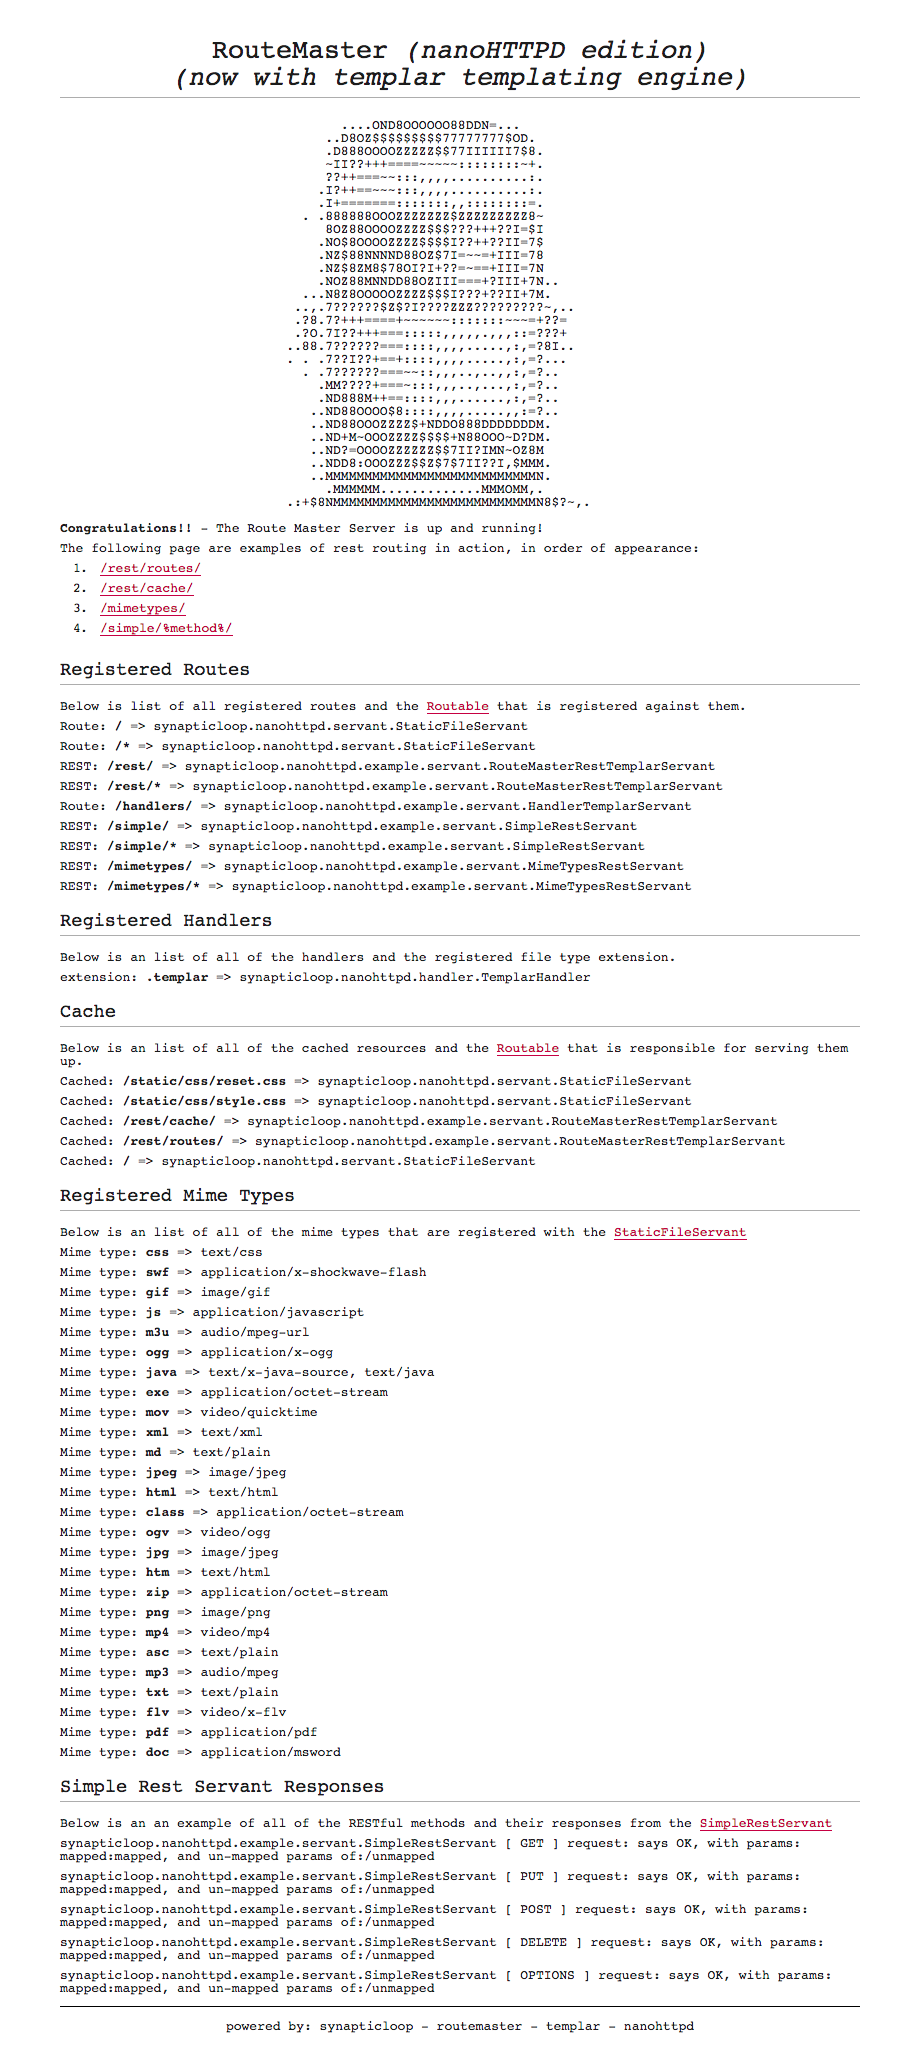
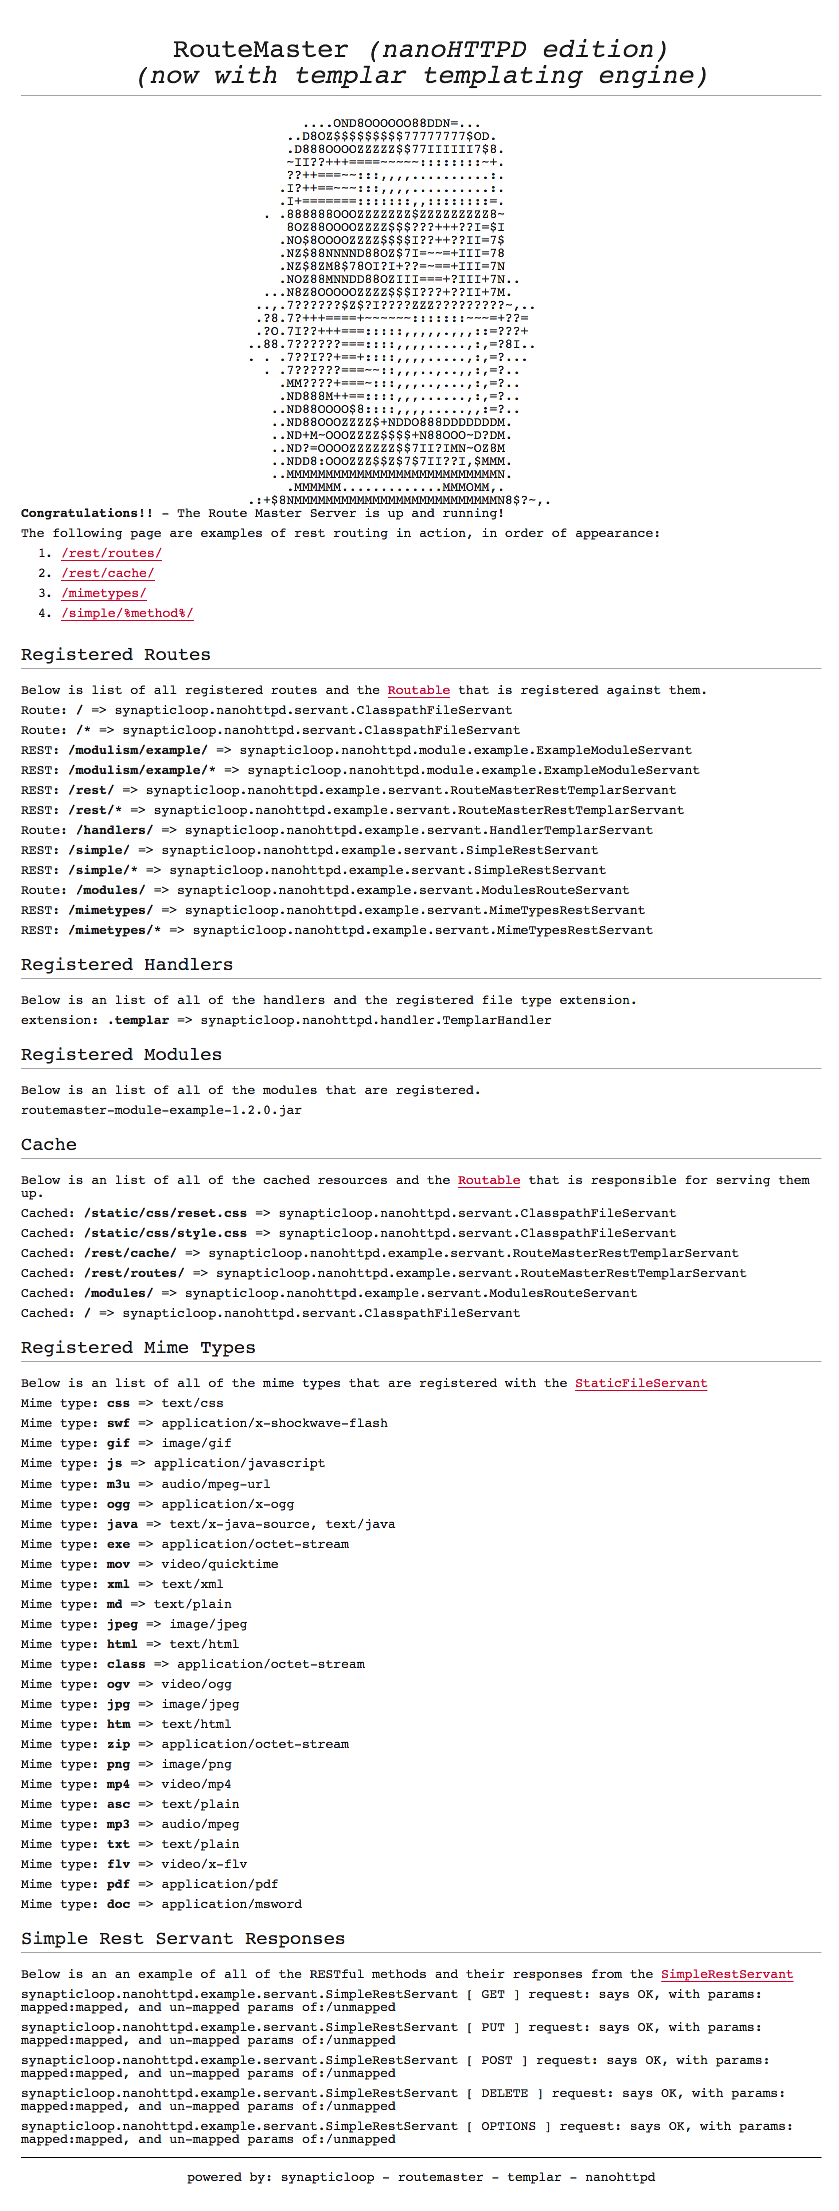
updated

Changed region(s): [[0.031, 0.0, 0.9297, 0.9985], [0.8677, 0.4993, 0.8987, 0.5305]]

diff --git a/src/main/html/index.html b/src/main/html/index.html
@@ -69,6 +69,13 @@
 	<div id="handlers">
 	</div>
 
+	<h2>Registered Modules</h2>
+	<p>Below is an list of all of the modules that are registered.</p>
+
+	<div id="modules">
+	</div>
+
+
 	<h2>Cache</h2>
 	<p>Below is an list of all of the cached resources and the <span class="code">Routable</span> that is responsible for serving them up.</p>
 
@@ -131,6 +138,12 @@
 			url: "/handlers/"
 		}).done(function(data) {
 			$("#handlers").append(data);
+		});
+
+		$.ajax({
+			url: "/modules/"
+		}).done(function(data) {
+			$("#modules").append(data);
 		});
 
 		$.ajax({

diff --git a/src/main/java/synapticloop/nanohttpd/servant/StaticFileServant.java b/src/main/java/synapticloop/nanohttpd/servant/StaticFileServant.java
@@ -44,6 +44,7 @@ public class StaticFileServant extends Routable {
 	@Override
 	public Response serve(File rootDir, IHTTPSession httpSession) {
 		boolean indexFileRequested = false;
+		Map<String, Handler> handlerCache = RouteMaster.getHandlerCache();
 
 		String uri = HttpUtils.cleanUri(httpSession.getUri());
 		File file = new File(rootDir.getAbsolutePath() + uri);
@@ -54,6 +55,22 @@ public class StaticFileServant extends Routable {
 				file = indexFile;
 				indexFileRequested = true;
 			} else {
+				// maybe this can be handled by a handler... (it may be a virtual file)
+				int lastIndexOf = uri.lastIndexOf(".");
+				String extension = uri.substring(lastIndexOf + 1);
+				if(handlerCache.containsKey(extension)) {
+					Handler handler = handlerCache.get(extension);
+					String fileName = file.getName();
+					if(handler.canServeUri(fileName)) {
+						if(indexFileRequested) {
+							return(handler.serveFile(rootDir, uri + fileName, httpSession.getHeaders(), httpSession));
+						} else {
+							return(handler.serveFile(rootDir, uri, httpSession.getHeaders(), httpSession));
+						}
+					}
+				}
+
+				// at this point we cannot handle the response
 				return(RouteMaster.get404Response(rootDir, httpSession));
 			}
 		}
@@ -77,7 +94,6 @@ public class StaticFileServant extends Routable {
 		int lastIndexOf = absolutePath.lastIndexOf(".");
 		String extension = absolutePath.substring(lastIndexOf + 1);
 
-		Map<String, Handler> handlerCache = RouteMaster.getHandlerCache();
 		if(handlerCache.containsKey(extension)) {
 			Handler handler = handlerCache.get(extension);
 			String fileName = file.getName();
@@ -169,6 +185,7 @@ public class StaticFileServant extends Routable {
 							return (int) dataLen;
 						}
 					};
+
 					long skip = fis.skip(startFrom);
 					if(skip != startFrom) {
 						LOGGER.severe("Tried to skip: " + startFrom + " bytes, but actualy skipped: " + skip + " bytes");
@@ -180,9 +197,9 @@ public class StaticFileServant extends Routable {
 					res.addHeader("ETag", etag);
 				}
 			} else {
-				if (etag.equals(header.get("if-none-match")))
+				if (etag.equals(header.get("if-none-match"))) {
 					res = HttpUtils.notModifiedResponse(mimeType, "");
-				else {
+				} else {
 					res = HttpUtils.okResponse(mimeType, new FileInputStream(file), file.length());
 					res.addHeader("Accept-Ranges", "bytes");
 					res.addHeader("Content-Length", "" + Long.toString(fileLen));

diff --git a/src/main/java/synapticloop/nanohttpd/example/servant/ModulesRouteServant.java b/src/main/java/synapticloop/nanohttpd/example/servant/ModulesRouteServant.java
@@ -1,0 +1,48 @@
+package synapticloop.nanohttpd.example.servant;
+
+/*
+ * Copyright (c) 2013-2017 synapticloop.
+ * 
+ * All rights reserved.
+ *
+ * This source code and any derived binaries are covered by the terms and
+ * conditions of the Licence agreement ("the Licence").  You may not use this
+ * source code or any derived binaries except in compliance with the Licence.
+ * A copy of the Licence is available in the file named LICENCE shipped with
+ * this source code or binaries.
+ *
+ * Unless required by applicable law or agreed to in writing, software
+ * distributed under the Licence is distributed on an "AS IS" BASIS, WITHOUT
+ * WARRANTIES OR CONDITIONS OF ANY KIND, either express or implied. See the
+ * Licence for the specific language governing permissions and limitations
+ * under the Licence.
+ */
+
+import java.io.File;
+import java.util.Iterator;
+
+import synapticloop.nanohttpd.router.Routable;
+import synapticloop.nanohttpd.router.RouteMaster;
+import synapticloop.nanohttpd.utils.HttpUtils;
+import fi.iki.elonen.NanoHTTPD.IHTTPSession;
+import fi.iki.elonen.NanoHTTPD.Response;
+
+public class ModulesRouteServant extends Routable {
+
+	public ModulesRouteServant(String routeContext) {
+		super(routeContext);
+	}
+
+	@Override
+	public Response serve(File rootDir, IHTTPSession httpSession) {
+		StringBuilder content = new StringBuilder();
+		Iterator<String> iterator = RouteMaster.getModules().iterator();
+		while (iterator.hasNext()) {
+			String module = (String) iterator.next();
+			content.append("<p>");
+			content.append(module);
+			content.append("</p>");
+		}
+		return(HttpUtils.okResponse(content.toString()));
+	}
+}

diff --git a/src/main/java/synapticloop/nanohttpd/router/Routable.java b/src/main/java/synapticloop/nanohttpd/router/Routable.java
@@ -19,6 +19,8 @@ package synapticloop.nanohttpd.router;
  */
 
 import java.io.File;
+import java.util.HashMap;
+import java.util.Map;
 
 import fi.iki.elonen.NanoHTTPD.IHTTPSession;
 import fi.iki.elonen.NanoHTTPD.Response;
@@ -26,6 +28,8 @@ import fi.iki.elonen.NanoHTTPD.Response;
 public abstract class Routable {
 	// the route that this routable is bound to
 	protected String routeContext = null;
+	// the map of option key values
+	protected Map<String, String> options = new HashMap<String, String>();
 
 	/**
 	 * Create a new routable class with the bound routing context
@@ -45,4 +49,25 @@ public abstract class Routable {
 	 * @return The response
 	 */
 	public abstract Response serve(File rootDir, IHTTPSession httpSession);
+	
+	/**
+	 * Set an option for this routable into the options map.
+	 * 
+	 * @param key The option key
+	 * @param value the value
+	 */
+	public void setOption(String key, String value) {
+		options.put(key, value);
+	}
+
+	/**
+	 * Get an option from the map, or null if it does not exist
+	 * 
+	 * @param key the key to search for
+	 * 
+	 * @return the value of the option, or null if it doesn't exist
+	 */
+	public String getOption(String key) {
+		return(options.get(key));
+	}
 }

diff --git a/src/main/java/synapticloop/nanohttpd/utils/HttpUtils.java b/src/main/java/synapticloop/nanohttpd/utils/HttpUtils.java
@@ -33,7 +33,11 @@ public class HttpUtils {
 	private static final Logger LOGGER = Logger.getLogger(HttpUtils.class.getName());
 
 	public static String cleanUri(String uri) {
-		return(uri.replaceAll("/\\.\\./", "/"));
+		if(null == uri) {
+			return(null);
+		}
+
+		return(uri.replaceAll("/\\.\\./", "/").replaceAll("//", "/"));
 	}
 
 	private static Response defaultTextResponse(IStatus status) { return(newFixedLengthResponse(status, NanoHTTPD.MIME_PLAINTEXT, status.getDescription())); }

diff --git a/src/main/java/synapticloop/nanohttpd/router/Router.java b/src/main/java/synapticloop/nanohttpd/router/Router.java
@@ -118,7 +118,8 @@ public class Router {
 	 * 
 	 * @param httpSession The user's session
 	 * @param stringTokenizer the stringTokenizer for the route paths
-	 * @return the Routable that responds to this uri
+	 * 
+	 * @return the Routable that responds to this URI
 	 */
 	public Routable route(IHTTPSession httpSession, StringTokenizer stringTokenizer) {
 		if(stringTokenizer.hasMoreTokens()) {

diff --git a/src/main/java/synapticloop/nanohttpd/router/response/UnhandledResponse.java b/src/main/java/synapticloop/nanohttpd/router/response/UnhandledResponse.java
@@ -1,0 +1,13 @@
+package synapticloop.nanohttpd.router.response;
+
+import java.io.InputStream;
+
+import synapticloop.nanohttpd.utils.Response;
+
+public class UnhandledResponse extends Response {
+
+	protected UnhandledResponse(IStatus status, String mimeType, InputStream data, long totalBytes) {
+		super(status, mimeType, data, totalBytes);
+	}
+
+}

diff --git a/README.md b/README.md
@@ -28,10 +28,10 @@
 
  - [routemaster](#documentr_heading_0)
  - [Table of Contents](#documentr_heading_1)
- - [Now with Templar templating!](#documentr_heading_2)
- - [Now with Modules](#documentr_heading_3)
-   - [Options](#documentr_heading_5)
-   - [As an aside](#documentr_heading_6)
+ - [Templating with Templar templating language](#documentr_heading_2)
+ - [Module support](#documentr_heading_3)
+   - [Options](#documentr_heading_6)
+   - [As an aside](#documentr_heading_7)
 
 
 # RouteMaster
@@ -46,15 +46,25 @@ See [https://synapticloop.github.io/routemaster/](https://synapticloop.github.io
 
 <a name="documentr_heading_2"></a>
 
-# Now with Templar templating! <sup><sup>[top](documentr_top)</sup></sup>
+# Templating with `Templar` templating language <sup><sup>[top](documentr_top)</sup></sup>
 
 Yes, you can now do some server side includes, using the synapticloop templar templating language!
+
+A quick example is:
+
+
+
+```
+{import src/main/html/templar-handler.snippet}
+```
+
+
 
 
 
 <a name="documentr_heading_3"></a>
 
-# Now with Modules <sup><sup>[top](documentr_top)</sup></sup>
+# Module support <sup><sup>[top](documentr_top)</sup></sup>
 
 To make it quicker and easier to get started with routemaster, we added in module 
 functionality so that it can be easily extended.
@@ -67,12 +77,18 @@ These will be automatically registered and ready to go.
 
 For an example module with everything you need to build and deploy, see [https://github.com/synapticloop/routemaster-module-example](https://github.com/synapticloop/routemaster-module-example).
 
+### Some of the available modules
+
+**Thumbnailer** [routemaster-module-thumbnailer](https://github.com/synapticloop/routemaster-module-thumbnailer) automatically generate thumbnails of images on the fly.
+
+**Templar Handler** [routemaster-module-templar-handler](https://github.com/synapticloop/routemaster-module-templar-handler) add templar templating language handling to the routemaster server.
+
+**Static file lister** [routemaster-module-static-file-lister](https://github.com/synapticloop/routemaster-module-static-file-lister) add in static file listing and navigation.
 
 
 
 
-
-<a name="documentr_heading_5"></a>
+<a name="documentr_heading_6"></a>
 
 ## Options <sup><sup>[top](documentr_top)</sup></sup>
 
@@ -96,7 +112,7 @@ Following the NanoHTTPD, you may pass in the following options
 
 
 
-<a name="documentr_heading_6"></a>
+<a name="documentr_heading_7"></a>
 
 ## As an aside <sup><sup>[top](documentr_top)</sup></sup>
 
@@ -240,9 +256,9 @@ repositories {
 
 
 dependencies {
-	runtime(group: 'synapticloop', name: 'routemaster', version: '2.2.1', ext: 'jar')
+	runtime(group: 'synapticloop', name: 'routemaster', version: '2.3.0', ext: 'jar')
 
-	compile(group: 'synapticloop', name: 'routemaster', version: '2.2.1', ext: 'jar')
+	compile(group: 'synapticloop', name: 'routemaster', version: '2.3.0', ext: 'jar')
 }
 
 
@@ -254,9 +270,9 @@ or, more simply for versions of gradle greater than 2.1
 
 
 dependencies {
-	runtime 'synapticloop:routemaster:2.2.1'
+	runtime 'synapticloop:routemaster:2.3.0'
 
-	compile 'synapticloop:routemaster:2.2.1'
+	compile 'synapticloop:routemaster:2.3.0'
 }
 
 
@@ -270,7 +286,7 @@ dependencies {
 <dependency>
 	<groupId>synapticloop</groupId>
 	<artifactId>routemaster</artifactId>
-	<version>2.2.1</version>
+	<version>2.3.0</version>
 	<type>jar</type>
 </dependency>
 

diff --git a/src/docs/readme.md b/src/docs/readme.md
@@ -1,19 +1,27 @@
 # RouteMaster
 
-Handy routing controller for the truly excellent [nanohttpd](https://github.com/NanoHttpd/nanohttpd) tiny, easily embeddable HTTP Java server.
+Handy routing controller and webserver for the truly excellent [nanohttpd](https://github.com/NanoHttpd/nanohttpd) tiny, easily embed-able HTTP Java server, with module and templating support.
 
 See [https://synapticloop.github.io/routemaster/](https://synapticloop.github.io/routemaster/) for full documentation
 
 ![routemaster home page](https://raw.github.com/synapticloop/routemaster/master/src/main/wiki/images/nano-httpd-home.png)
 
-# Now with Templar templating!
+# Templating with `Templar` templating language
 
 Yes, you can now do some server side includes, using the synapticloop templar templating language!
 
-# Now with Modules
+A quick example to use includes:
+
+```
+{import src/main/html/templar-handler.snippet}
+```
+
+# Module support
 
 To make it quicker and easier to get started with routemaster, we added in module 
-functionality so that it can be easily extended.
+functionality so that it can be easily extended, just create a directory named 
+`modules` in the same directory from whence the server was started and copy the 
+modules into it.  These modules will be automatically loaded and deployed.
 
 ### Instructions:
 
@@ -23,7 +31,13 @@ These will be automatically registered and ready to go.
 
 For an example module with everything you need to build and deploy, see [https://github.com/synapticloop/routemaster-module-example](https://github.com/synapticloop/routemaster-module-example).
 
+### Some of the available modules
 
+**Thumbnailer** [routemaster-module-thumbnailer](https://github.com/synapticloop/routemaster-module-thumbnailer) automatically generate thumbnails of images on the fly.
+
+**Templar Handler** [routemaster-module-templar-handler](https://github.com/synapticloop/routemaster-module-templar-handler) add templar templating language handling to the routemaster server.
+
+**Static file lister** [routemaster-module-static-file-lister](https://github.com/synapticloop/routemaster-module-static-file-lister) add in static file listing and navigation.
 
 
 ## Options
